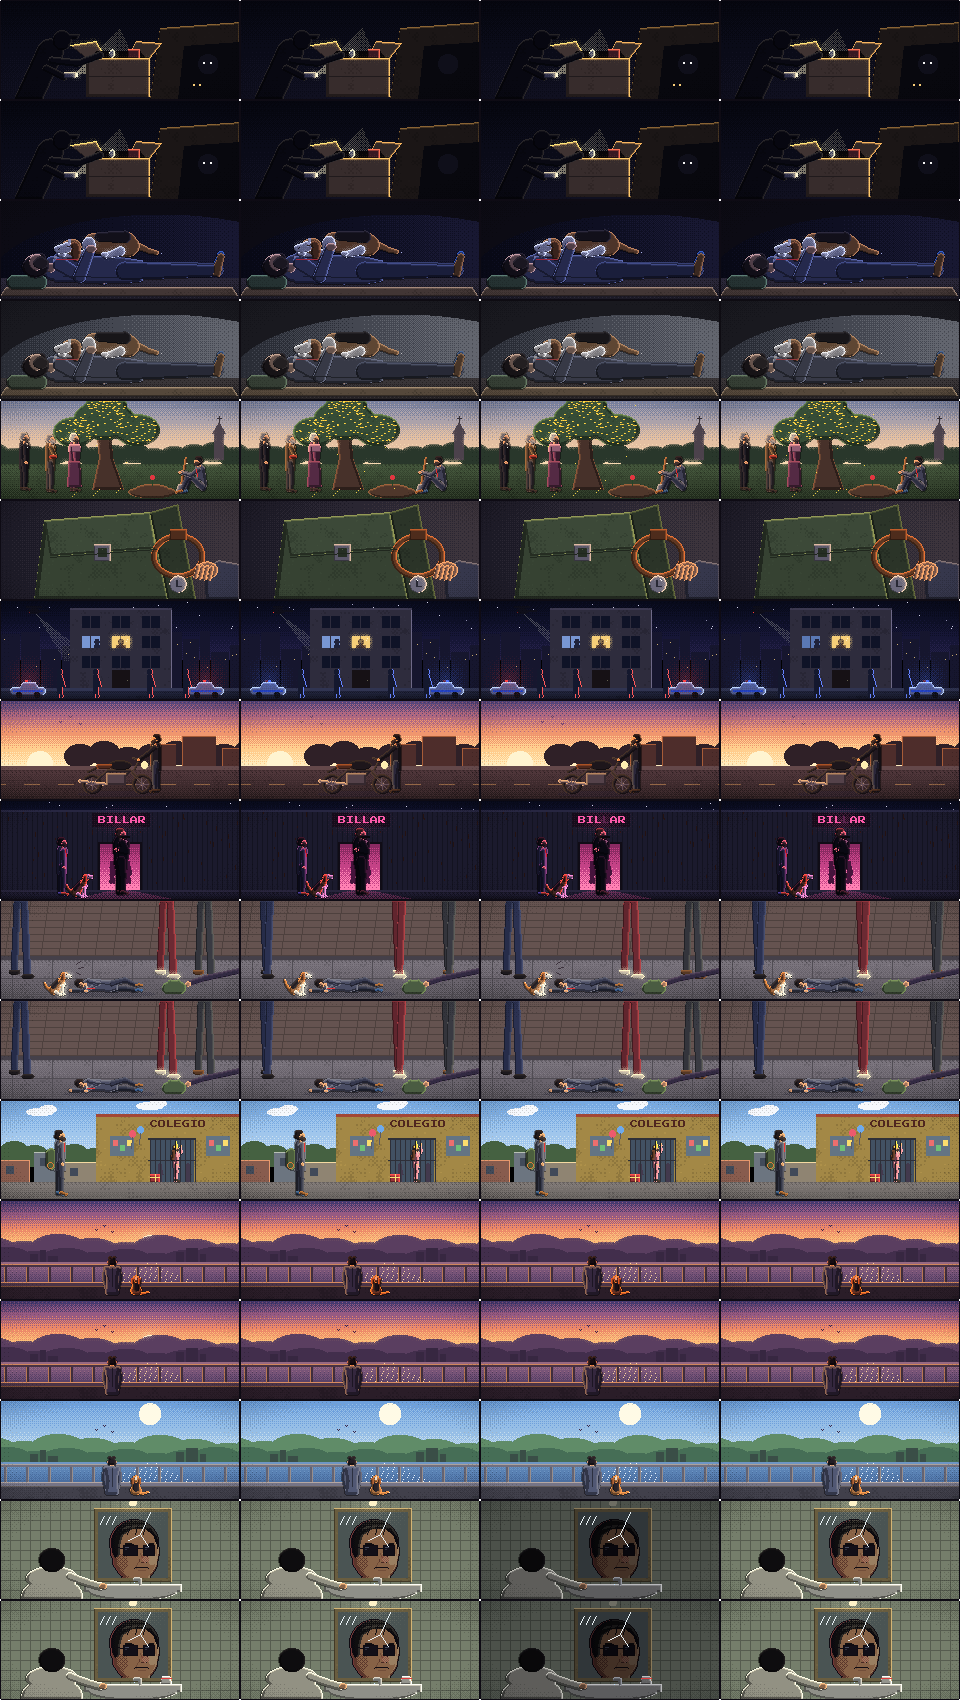
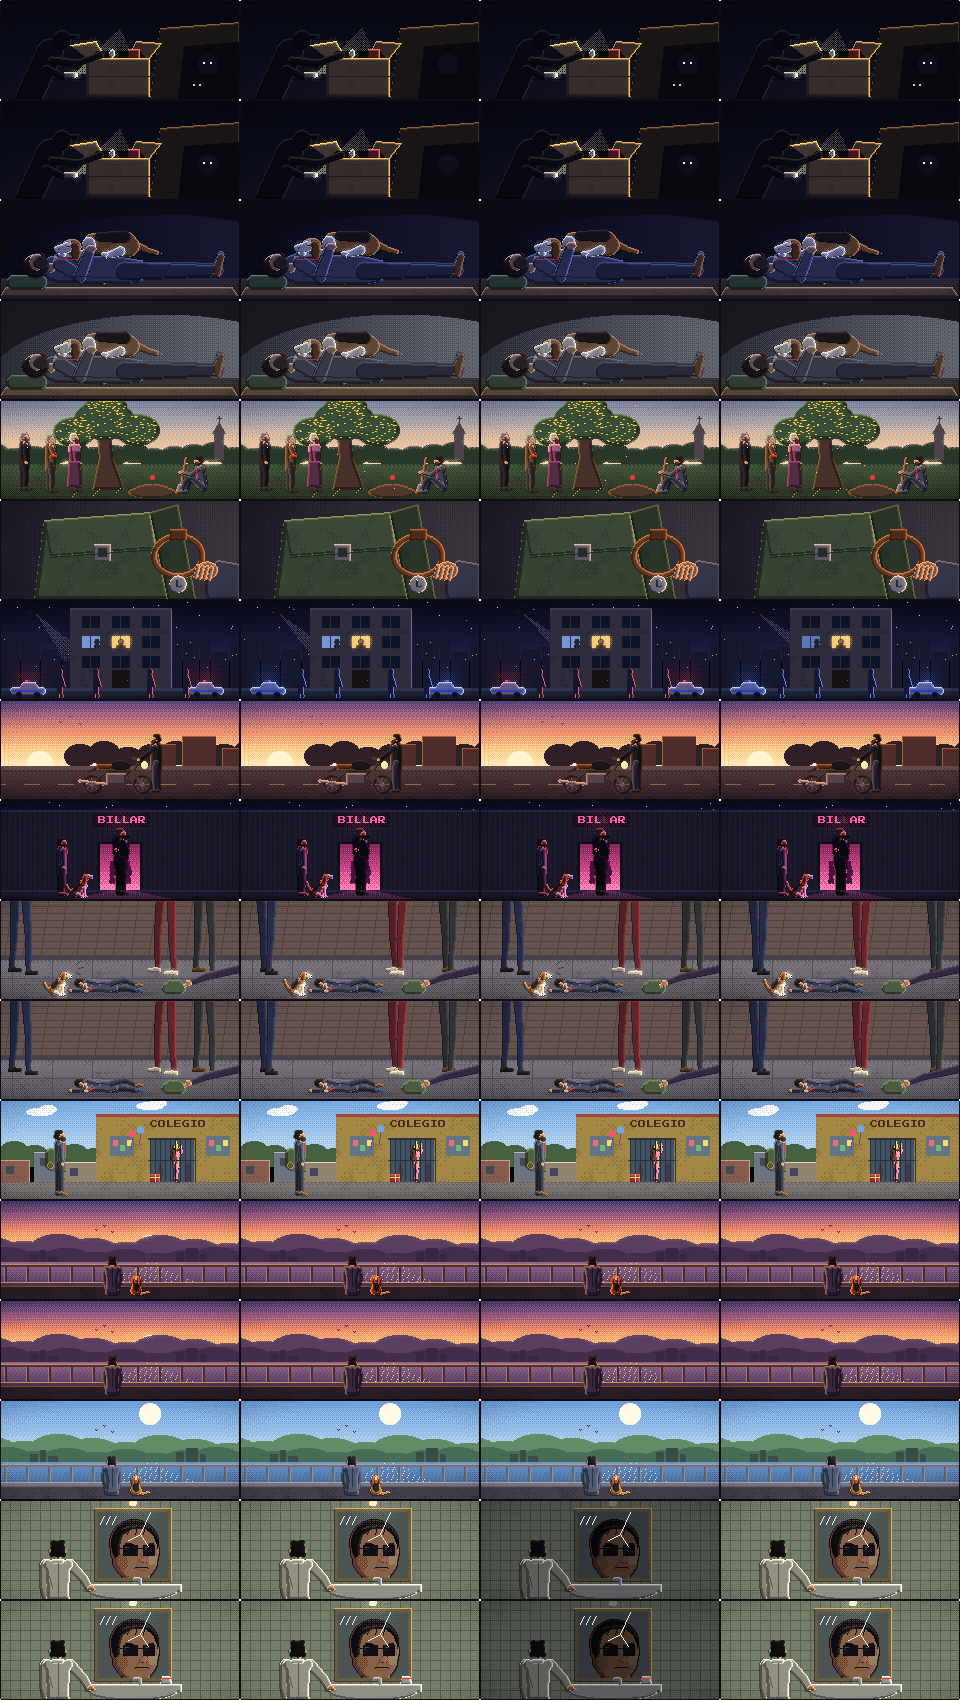
Vinetas: el espejo, el desmayo y el cucharon tambien con cuerpos de verdad

diff --git a/tools/art/draw_vinetas.py b/tools/art/draw_vinetas.py
@@ -39,7 +39,7 @@ from PIL import Image, ImageDraw, ImageFont
 sys.path.insert(0, os.path.dirname(__file__))
 from vinetas_motor import (W, H, BAY, Cv, Env, Actor, col, mix, breath, vapor, rain, splashes, stars, ground_shadow,  # noqa: E402
                            man_side, man_back, man_bench, man_sit, man_wake, man_stand,
-                           lukas_curl, lukas_down, lukas_sit, figure, _limb,
+                           lukas_curl, lukas_down, lukas_sit, figure, _limb, _shoe,
                            COAT, PANTS, HAIR, BEARD, SKIN, SHIRT, TIE, SHOE_A, SHOE_B, PACK, TAN, EAR, BLACK, WHITE, CARTON, TARP)
 
 import vinetas_motor  # noqa: E402
@@ -1257,17 +1257,24 @@ def desmayo(solo, f):
     for wx, pants, shoe, sp in walkers:
         x = (wx + sp * f * 2) % (W + 20) - 10
         step = 3 if f % 2 == 0 else -3
-        cv.shape(cv.mask(lambda d: d.cap(x - 3, 0, x - 3 - step, 70, 7)), pants, env, shade=1, emph=0.9)
-        cv.shape(cv.mask(lambda d: d.cap(x - 6 - step, 72, x + 1 - step, 72, 4.5)), shoe, env, shade=1)
-        cv.shape(cv.mask(lambda d: d.cap(x + 4, 0, x + 4 + step, 74, 7.4)), pants, env, shade=1)
-        cv.shape(cv.mask(lambda d: d.cap(x + 1 + step, 76.5, x + 9 + step, 76.5, 4.8)), shoe, env, shade=1)
+        sgn = 1.0 if sp > 0 else -1.0                                                  # hacia dónde caminan
+        for leg, dx, k, emph in ((-1, -5.4, -step, 0.84), (1, 5.4, step, 1.0)):     # la de allá, la de acá
+            hip, knee, ank = (x + dx, -4.0), (x + dx + k * 0.6 + sgn * 1.4, 38.0), (x + dx + k, 69.0 + (leg + 1) * 1.6)
+            cv.shape(cv.mask(lambda d, hip=hip, knee=knee, ank=ank: (_limb(d, hip, 4.4, knee, 3.6), _limb(d, knee, 3.6, ank, 2.6))),
+                     pants, env, shade=1, emph=0.9 * emph)
+            lines(cv, [[(int(knee[0] - sgn * 1.0), int(knee[1]) - 6), (int(knee[0]), int(knee[1]) + 4)]], dk(pants, 0.7))   # el pliegue de la rodilla
+            cv.shape(cv.mask(lambda d, ank=ank: _shoe(d, (0.0, 0.0), (sgn, 0.0)), ank[0], ank[1] + 1.0, k=1.7),
+                     shoe, env, shade=1, emph=emph)
     # Él, en el piso. La mochila, a un lado. Una mano que no es de él.
     ground_shadow(cv, 110, 94, 46, 3, (60, 58, 70), 0.5)
     man_side(Actor(cv, env, 112, 93), 0, reach=True, still=True)
     cv.shape(cv.mask(lambda d: (d.cap(168, 88, 180, 88, 12), d.cap(170, 82, 178, 82, 5))), PACK, env)
     reach = [0, 2, 4, 2][f]
-    cv.shape(cv.mask(lambda d: d.path([(W + 4, 70), (206 - reach, 78), (190 - reach, 83)], 6)), (70, 60, 90), env, shade=1)
-    cv.shape(cv.mask(lambda d: d.ell(188 - reach, 84, 3, 2.6)), SKIN, env, shade=1)
+    cv.shape(cv.mask(lambda d: (_limb(d, (W + 4, 68), 4.2, (206 - reach, 77), 3.4), _limb(d, (206 - reach, 77), 3.4, (192 - reach, 82.6), 2.6))),
+             (70, 60, 90), env, shade=1)                                               # la manga
+    cv.shape(cv.mask(lambda d: (d.ell(189 - reach, 83.4, 3.0, 2.2), _limb(d, (187 - reach, 83.6), 1.0, (183.6 - reach, 85.4), 0.8),
+                                _limb(d, (187.6 - reach, 85.0), 1.0, (184.4 - reach, 87.0), 0.8),
+                                _limb(d, (189.6 - reach, 81.4), 0.9, (186.4 - reach, 80.6), 0.7))), SKIN, env, shade=1)   # la mano, abierta
     if not solo:  # Lukas, al lado, ladrándole a todo
         lukas_sit(Actor(cv, env, 62, 95), f % 2, up=False)
         if f % 2 == 0:
@@ -1338,13 +1345,21 @@ MOMENTOS = [lambda f: intruso(False, f), lambda f: intruso(True, f), lambda f: l
 
 # ---------------------------------------------------------------- Mirar desde el puente; el espejo de Lisandro
 
-def _man_back_seated(cv, env, x, y, coat=COAT):
+def _man_back_seated(cv, env, x, y, coat=COAT, scale=1.0, hair=HAIR, reach=None):
     """Él, sentado de espaldas (mirando lo que mira): la espalda del saco que le queda grande, los brazos
-    a los lados, la nuca, las orejas y el pelo despeinado. Origen: el piso, en la mitad."""
-    a = Actor(cv, env, x, y)
-    a.part(coat, lambda d: (_limb(d, (-6.6, -26.4), 2.5, (-7.4, -15.0), 2.2), _limb(d, (-7.4, -15.0), 2.2, (-5.6, -6.0), 1.8),
-                            _limb(d, (6.6, -26.4), 2.5, (7.4, -15.0), 2.2), _limb(d, (7.4, -15.0), 2.2, (5.6, -6.0), 1.8)),
-           emph=a.emph * 0.9)                                                         # los brazos, a los lados
+    a los lados, la nuca, las orejas y el pelo despeinado. Origen: el piso, en la mitad. scale: de cerca;
+    reach: a dónde va la mano derecha (si no, colgando)."""
+    a = Actor(cv, env, x, y, scale=scale)
+    a.part(coat, lambda d: (_limb(d, (-6.6, -26.4), 2.5, (-7.4, -15.0), 2.2), _limb(d, (-7.4, -15.0), 2.2, (-5.6, -6.0), 1.8)),
+           emph=a.emph * 0.9)                                                         # el brazo de la izquierda, colgando
+    if reach is None:
+        a.part(coat, lambda d: (_limb(d, (6.6, -26.4), 2.5, (7.4, -15.0), 2.2), _limb(d, (7.4, -15.0), 2.2, (5.6, -6.0), 1.8)),
+               emph=a.emph * 0.9)
+    else:
+        el = ((6.6 + reach[0]) / 2 + 2.4, (-26.4 + reach[1]) / 2 + 2.0)
+        a.part(coat, lambda d: (_limb(d, (6.6, -26.4), 2.5, el, 2.2), _limb(d, el, 2.2, reach, 1.8)), emph=a.emph * 0.95)
+        a.part(SKIN, lambda d: (d.ell(reach[0] + 0.8, reach[1] + 0.2, 1.8, 1.4), d.cap(reach[0] + 1.6, reach[1] + 0.6, reach[0] + 3.0, reach[1] + 1.2, 1.0)),
+               shade=1)                                                               # la mano, apoyada
     a.part(coat, lambda d: (d.poly([(-6.8, -27.4), (6.8, -27.4), (5.6, -12.0), (6.8, -2.0), (6.4, -0.4), (-6.4, -0.4),
                                     (-6.8, -2.0), (-5.6, -12.0)]), d.ell(-5.2, -26.2, 2.8, 2.6), d.ell(5.2, -26.2, 2.8, 2.6)), shade=3)
     a.line([(0, -26.6), (0, -9.0)], col(coat, env.amb * 0.55))                       # la costura de la espalda
@@ -1352,7 +1367,7 @@ def _man_back_seated(cv, env, x, y, coat=COAT):
     a.part(SKIN, lambda d: d.rect(-1.6, -30.4, 1.6, -27.4), shade=0)                  # la nuca
     a.part(coat, lambda d: d.rect(-3.2, -28.6, 3.2, -27.0), shade=0)                 # el cuello del saco
     a.part(SKIN, lambda d: (d.ell(-3.6, -32.8, 1.0, 1.6), d.ell(3.6, -32.8, 1.0, 1.6)), shade=0, rim=False)   # las orejas
-    a.part(HAIR, lambda d: (d.ell(0, -34.0, 3.6, 4.2), d.ell(-2.2, -37.4, 1.6, 1.3), d.ell(2.0, -37.8, 1.5, 1.2),
+    a.part(hair, lambda d: (d.ell(0, -34.0, 3.6, 4.2), d.ell(-2.2, -37.4, 1.6, 1.3), d.ell(2.0, -37.8, 1.5, 1.2),
                             d.ell(-3.2, -31.6, 1.0, 1.4), d.ell(3.0, -31.4, 1.0, 1.4)), shade=2)
     return a
 
@@ -1447,11 +1462,7 @@ def espejo(cap3, f):
         cv.shape(cv.mask(lambda d: d.poly([(160, 84), (172, 84), (170, 76), (162, 76)])), (240, 240, 244), env, shade=1)
         cv.post.append(lambda d: d.line([(161, 78), (171, 78)], fill=(220, 60, 60)))
     # Él (Lisandro), de espaldas: el saco blanco, la nuca, las manos en el lavamanos.
-    a = Actor(cv, env, 52, 108)
-    a.part((236, 234, 226), lambda d: (d.cap(-14, -10, 14, -10, 34), d.ell(0, -30, 26, 12)), shade=3)
-    a.part((24, 22, 26), lambda d: d.ell(0, -48, 13, 12), shade=2)
-    a.part((236, 234, 226), lambda d: d.path([(18, -32), (34, -26), (48, -22)], 8), shade=2)
-    a.part(SKIN, lambda d: d.ell(51, -22, 4, 3), shade=1)
+    _man_back_seated(cv, env, 58, 114, coat=(236, 234, 226), scale=1.9, hair=(24, 22, 26), reach=(16.4, -14.0))
     return cv
 
 
@@ -1680,12 +1691,21 @@ def p_cucharon(f):
     dk = lambda alb, k=0.55: col(alb, env.amb * k)
     cv.grad((0, 0, W, H), [dk((214, 220, 200), 1.0), dk((214, 220, 200), 0.8)], horizontal=True)
     a = Actor(cv, env, 0, 0)
-    a.part(COAT, lambda d: d.poly([(0, 100), (0, 60), (60, 40), (90, 52), (100, 100)]), shade=3)   # el brazo, en primer plano
-    a.part(SKIN, lambda d: (d.ell(112, 46, 18, 14), d.ell(104, 36, 8, 6)), shade=2)               # la mano, apretada
-    for k in range(4):
-        cv.post.append(lambda d, k=k: d.line([(104 + k * 6, 38), (104 + k * 6, 50)], fill=dk(SKIN, 0.75)))
-    a.part((190, 194, 204), lambda d: d.cap(116, 40, 176, 8, 6), shade=1)                         # el cucharón, como un arma
+    a.part(COAT, lambda d: d.poly([(0, 100), (0, 66), (58, 46), (84, 50), (92, 64), (70, 100)]), shade=3)   # el brazo, en primer plano
+    a.line([(30, 70), (52, 62)], col(COAT, env.amb * 0.55))                          # el pliegue de la manga
+    a.part(SHIRT, lambda d: d.poly([(80, 46), (88, 44), (96, 60), (88, 64)]), shade=1)  # el puño de la camisa
+    a.part((190, 194, 204), lambda d: d.cap(98, 52, 176, 8, 5.5), shade=1)           # el cucharón, como un arma
     a.part((190, 194, 204), lambda d: d.ell(186, 6, 16, 12), shade=2)
+    # La mano, apretando el mango: el dorso, los cuatro dedos doblados (los nudillos) y el pulgar encima.
+    a.part(SKIN, lambda d: (_limb(d, (92, 54), 7.6, (112, 44), 8.6), d.ell(106, 47, 9.0, 7.6)), shade=2)
+    for k in range(4):
+        fx, fy = 104 + k * 5.2, 40 + k * 3.4 - 6.0
+        a.part(SKIN, lambda d, fx=fx, fy=fy: (_limb(d, (fx, fy), 2.6, (fx + 4.2, fy + 6.0), 2.4), d.ell(fx + 4.0, fy + 7.6, 2.4, 2.0)),
+               shade=2)                                                               # los dedos, doblados sobre el mango
+    a.part(SKIN, lambda d: _limb(d, (104, 52), 3.2, (120, 42), 2.4), shade=2)        # el pulgar, encima
+    knuckle = dk(SKIN, 0.72)
+    for k in range(4):
+        cv.post.append(lambda d, k=k: d.point((int(105 + k * 5.2), int(37 + k * 3.4)), fill=knuckle))
     for k in range(5):                                                                   # el arroz que se cae
         cv.px(176 + k * 5, 18 + (f * 4 + k * 7) % 60, (250, 250, 240))
     cv.post.append(lambda d: d.text((150, 74), "¿ARMA?", font=FONT, fill=(210, 50, 50)))
